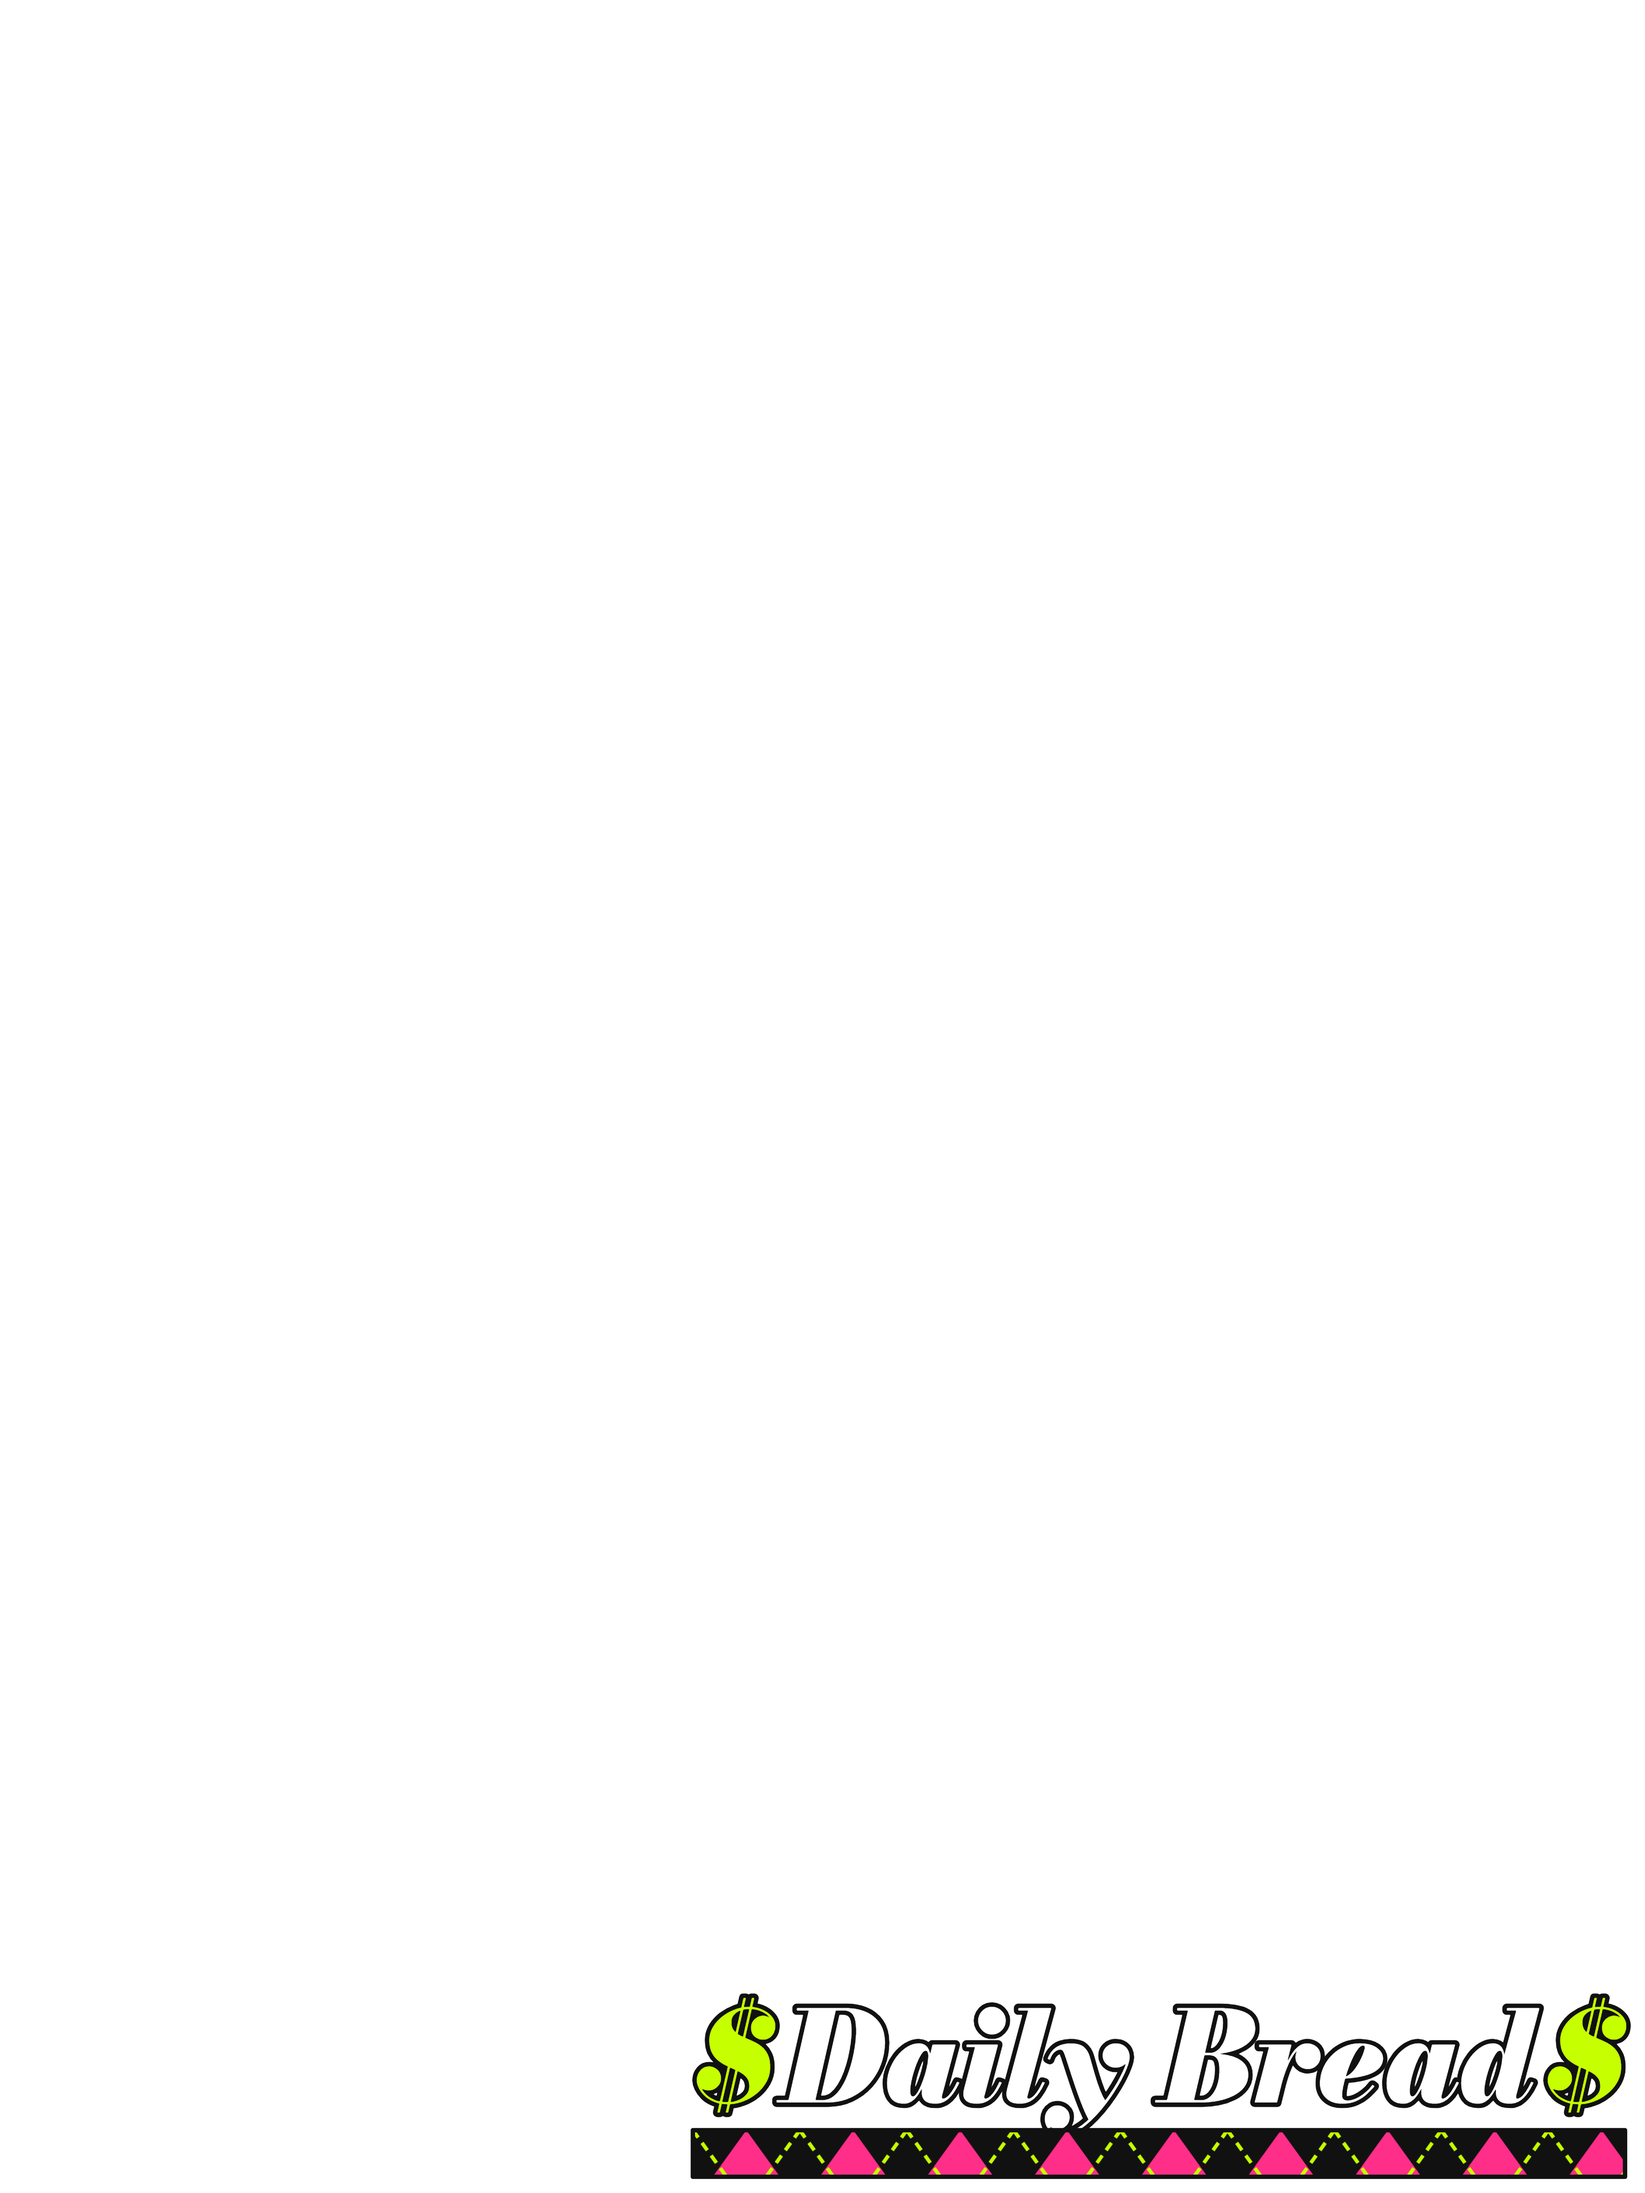
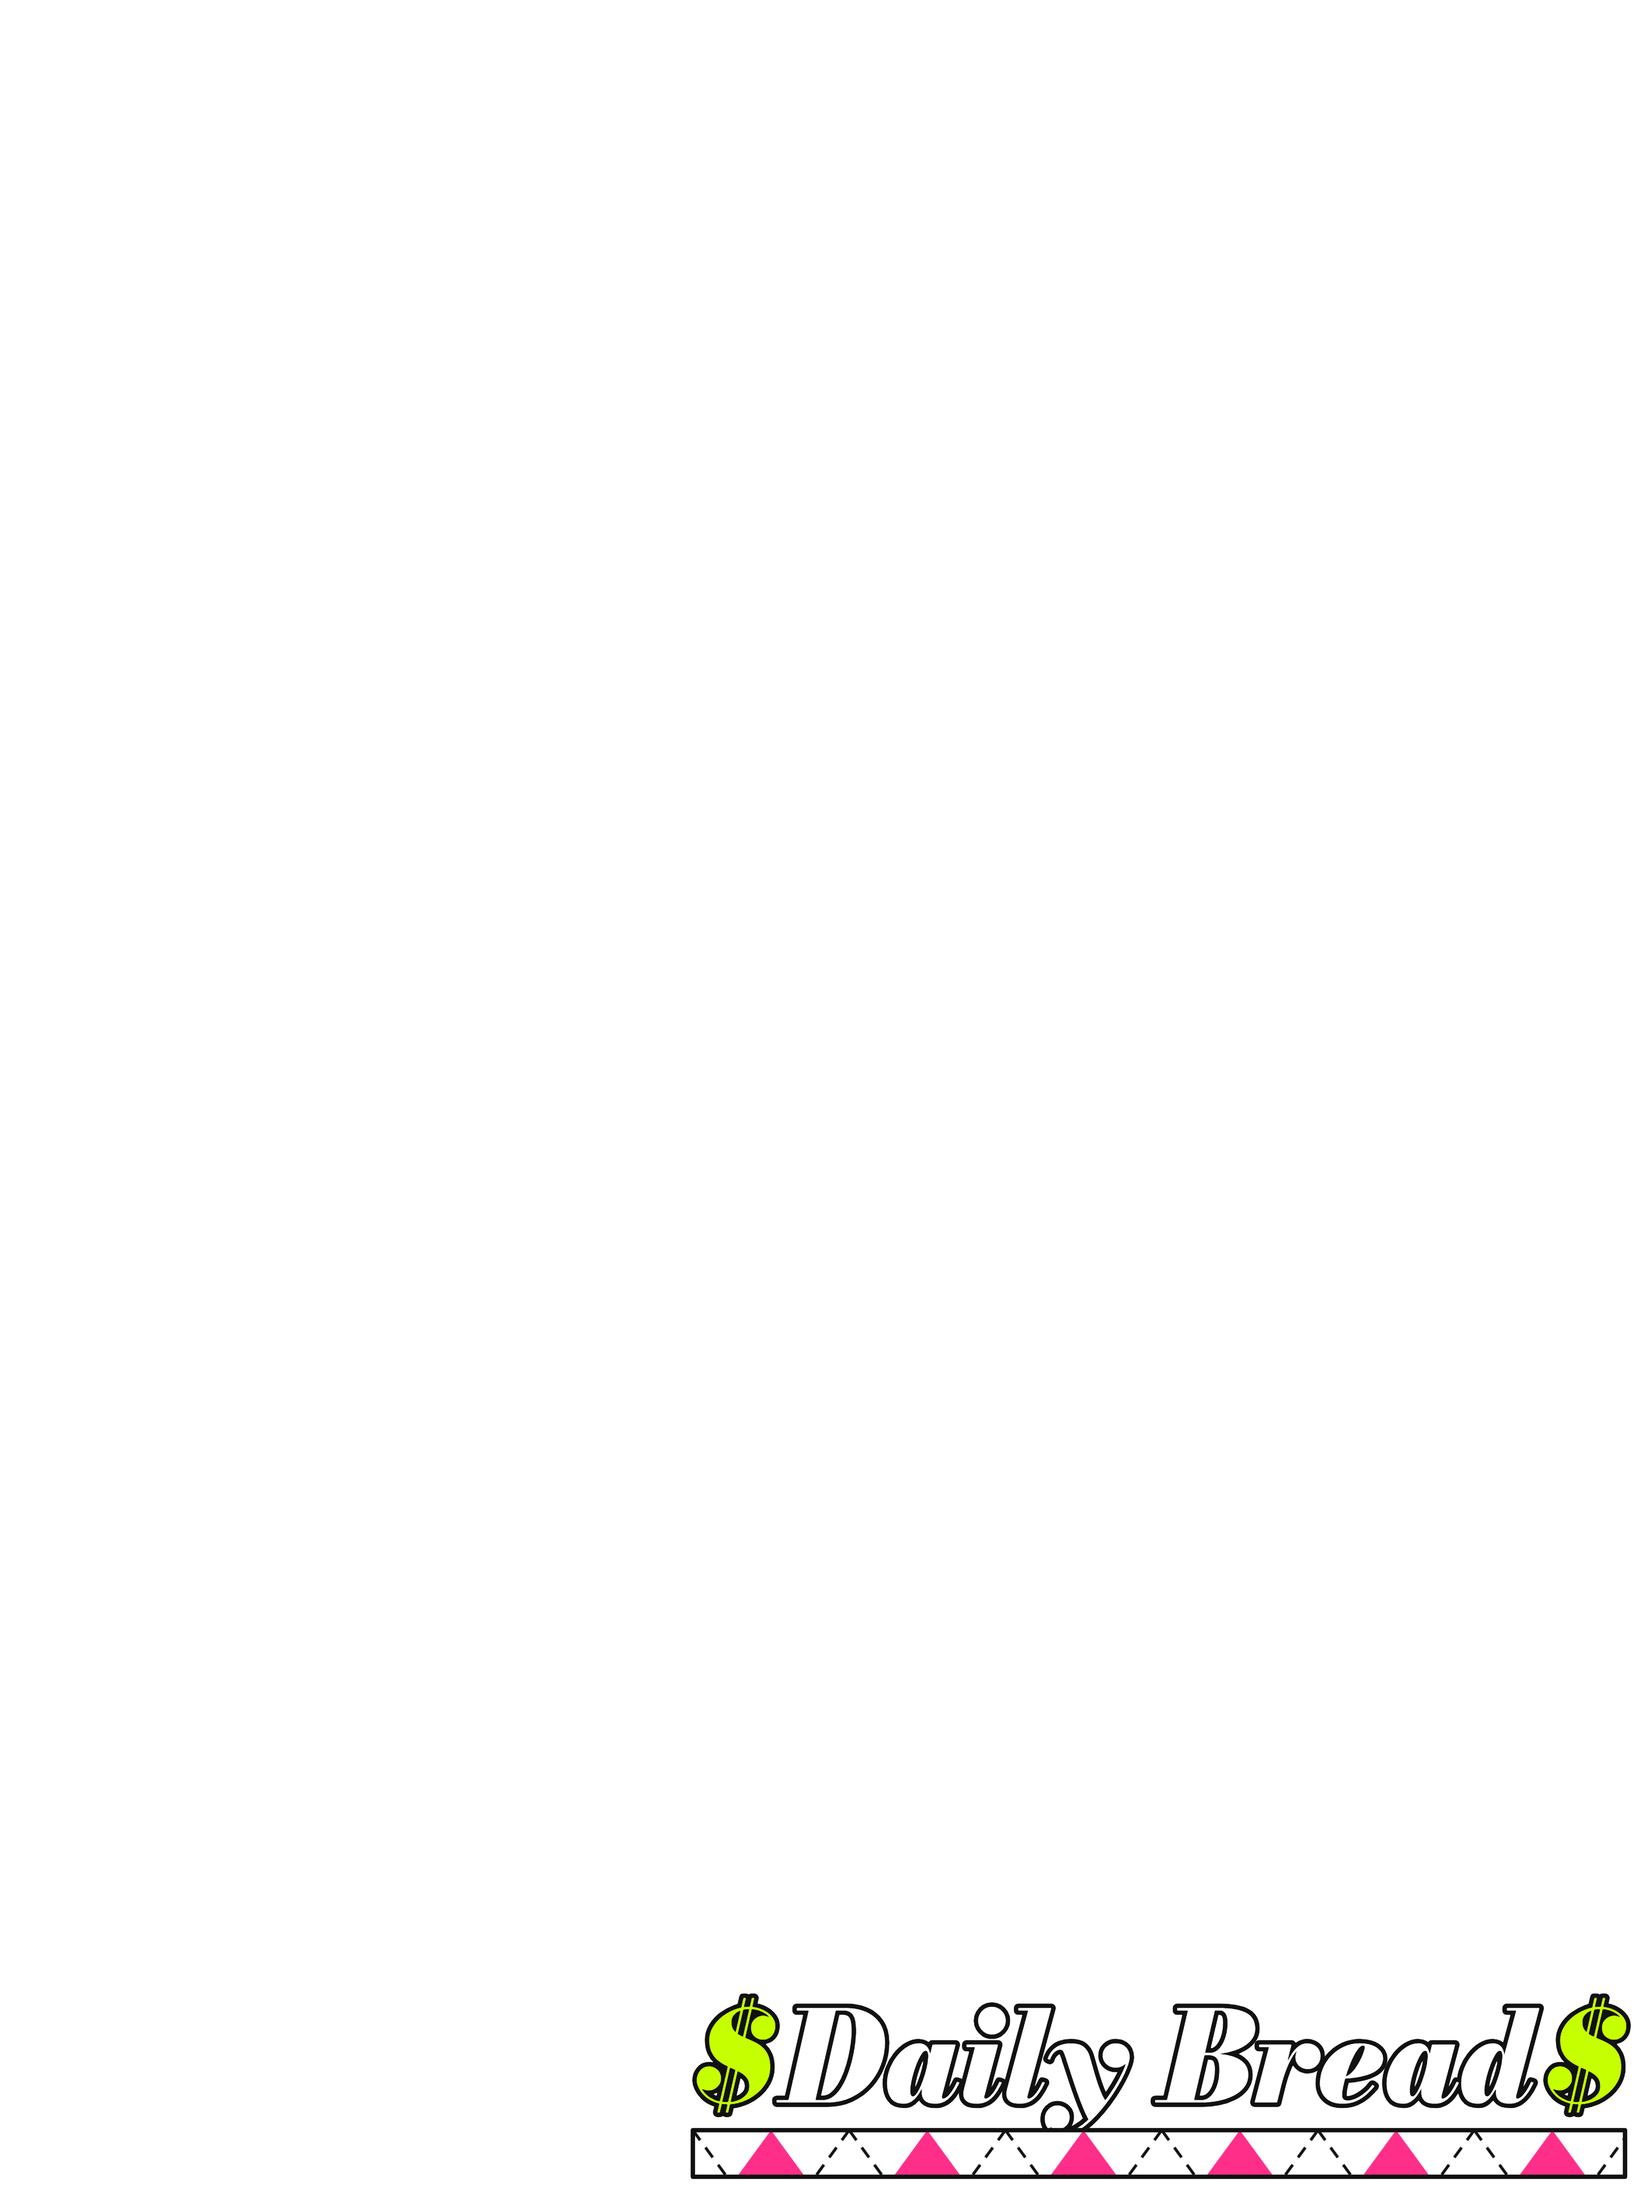
Argyle v2: calmer pattern, one outline
Whole toast in argyle (no solid crust band), no light keylines, bigger diamonds
(about three across), no accent diamonds, thin dashed overcheck, and lighter
diamond colors so the black face reads alone. Variants with the logo's inner
crust line kept for comparison. Notes updated.

Changed region(s): [[0.4044, 0.9688, 0.9956, 1.0]]

diff --git a/tshirts/patterns/patterns.js b/tshirts/patterns/patterns.js
@@ -17,10 +17,17 @@ const { setDpi } = require('../paintshop/printful');
 
 const INK = '#111111';
 const DESIGNS = {
-  'argyle-classic': { name: 'Argyle · Classic', pattern: 'argyle', crust: '#1d2a4d', halo: '#d4af37', key: '#f3ecdc',
-    a: { base: '#f3ecdc', d1: '#1d2a4d', d2: '#6f7f99', line: '#8c1d2b' } },
-  'argyle-brand': { name: 'Argyle · Brand', pattern: 'argyle', crust: '#111111', halo: '#c6ff00', key: '#ffffff',
-    a: { base: '#ffffff', d1: '#ff2e88', d2: '#111111', line: '#c6ff00' } },
+  // Argyle v2 (calmer): the whole toast is argyle (no solid crust band), no keylines, bigger diamonds, no
+  // accent diamonds, a thin overcheck; light diamond colors so the black face reads on its own. "-line" keeps
+  // the logo's inner crust line, the plain ids drop it (one outline only).
+  'argyle-classic': { name: 'Argyle · Classic', pattern: 'argyle', v2: true, innerLine: false, halo: '#d4af37',
+    a: { base: '#f3ecdc', d1: '#9fb0c8', d2: '#f3ecdc', line: '#1d2a4d' } },
+  'argyle-classic-line': { name: 'Argyle · Classic, inner line', pattern: 'argyle', v2: true, innerLine: true, halo: '#d4af37',
+    a: { base: '#f3ecdc', d1: '#9fb0c8', d2: '#f3ecdc', line: '#1d2a4d' } },
+  'argyle-brand': { name: 'Argyle · Brand', pattern: 'argyle', v2: true, innerLine: false, halo: '#c6ff00',
+    a: { base: '#ffffff', d1: '#ff2e88', d2: '#ffffff', line: '#111111' } },
+  'argyle-brand-line': { name: 'Argyle · Brand, inner line', pattern: 'argyle', v2: true, innerLine: true, halo: '#c6ff00',
+    a: { base: '#ffffff', d1: '#ff2e88', d2: '#ffffff', line: '#111111' } },
   'houndstooth-classic': { name: 'Houndstooth · Classic', pattern: 'houndstooth', crust: '#f4f4f2', halo: '#d4af37', key: '#ffffff',
     h: { dark: '#111111', light: '#f4f4f2' } },
   'houndstooth-brand': { name: 'Houndstooth · Brand', pattern: 'houndstooth', crust: '#ff2e88', halo: '#c6ff00', key: '#ffffff',
@@ -34,11 +41,11 @@ const FACE = `<g transform="${TOAST_T}"><path d="M62,108 C44,106 44,78 66,74 C78
 const isHalo = p => p.shape.includes('A38,9');
 
 // Pattern tiles, in drawing units (the toast is about 115 units wide).
-function argyleTile(c, w = 26, h = 36) {
+// Argyle v2: about three diamonds across the toast, a thin dashed overcheck, no accent diamonds.
+function argyleTile(c, w = 38, h = 52) {
   return { w, h, svg: `<rect width="${w}" height="${h}" fill="${c.d2}"/>`
     + `<path d="M${w / 2},0 L${w},${h / 2} L${w / 2},${h} L0,${h / 2} Z" fill="${c.d1}"/>`
-    + `<path d="M0,0 L${w},${h} M${w},0 L0,${h}" stroke="${c.line}" stroke-width="0.9" stroke-dasharray="2.2 1.6" fill="none"/>`
-    + `<path d="M${w / 2},${h / 2 - 3.2} L${w / 2 + 2.3},${h / 2} L${w / 2},${h / 2 + 3.2} L${w / 2 - 2.3},${h / 2} Z" fill="${c.base}"/>` };
+    + `<path d="M0,0 L${w},${h} M${w},0 L0,${h}" stroke="${c.line}" stroke-width="0.7" stroke-dasharray="3 2.2" fill="none"/>` };
 }
 function houndstoothTile(c, cell = 1.15) {
   // 2/2 twill: warp shows where (x + y) mod 4 < 2; warp color by column, weft color by row (4 dark, 4 light).
@@ -58,10 +65,16 @@ function frontSvg(id, size = 1000) {
   const outline = saint.parts.map(p => `<g fill="${INK}" stroke="${INK}" stroke-width="${OUTLINE}" stroke-linejoin="round">${p.shape}</g>`).join('');
   const halo = saint.parts.filter(isHalo).map(p => `<g fill="${d.halo}">${p.shape}</g>`).join('');
   const toastP = saint.parts.find(p => !isHalo(p));
-  const toast = `<g fill="${d.crust}">${toastP.shape}</g><g fill="url(#p-${id})">${FACE}</g>`;
-  // face details: the light keyline first (a wider stroke underneath), then the black lines
-  const det = toastP.detail.replace(/#000/g, INK);
-  const keyline = det.replace(/stroke="#111111"/g, `stroke="${d.key}"`).replace(/stroke-width="([\d.]+)"/g, (m, w) => `stroke-width="${+w + 3.2}"`);
+  let toast, det = toastP.detail.replace(/#000/g, INK), keyline = '';
+  if (d.v2) {
+    // the whole toast in the pattern, no keylines; drop the inner crust line unless asked for
+    toast = `<g fill="url(#p-${id})">${toastP.shape}</g>`;
+    if (!d.innerLine) det = det.replace(/<path d="M62,108[^>]*\/>/, '');
+  } else {
+    toast = `<g fill="${d.crust}">${toastP.shape}</g><g fill="url(#p-${id})">${FACE}</g>`;
+    // face details: the light keyline first (a wider stroke underneath), then the black lines
+    keyline = det.replace(/stroke="#111111"/g, `stroke="${d.key}"`).replace(/stroke-width="([\d.]+)"/g, (m, w) => `stroke-width="${+w + 3.2}"`);
+  }
   return `<svg xmlns="http://www.w3.org/2000/svg" viewBox="20 20 160 180" width="${size}" height="${size * 180 / 160}"><title>Coma Toast Saint, ${d.name}</title><defs>${pat}</defs>${outline}${halo}${toast}${keyline}${det}</svg>`;
 }
 

diff --git a/obsidian/Coma Toast/Shirts/Argyle and Houndstooth.md b/obsidian/Coma Toast/Shirts/Argyle and Houndstooth.md
@@ -1,7 +1,7 @@
 ---
 tags: [coma-toast, shirt, argyle, houndstooth, printful]
 updated: 2026-10-13
-status: v1 samples (2 patterns × 2 colorways), waiting on pick
+status: argyle v2 (calmer, no extra borders), waiting on pick
 ---
 # Argyle and Houndstooth
 
@@ -10,7 +10,21 @@ Part of [[Coma Toast]]. Two designs that mix the **main halo logo** (Saint, see 
 - **Local folders:** `G:\ComaToast\Argyle\`, `G:\ComaToast\Houndstooth\`
 - **Repo folder:** `tshirts/patterns/` (files in `files/<design>-<colorway>/`)
 
-## Look
+## Argyle v2 (current, 2026-10-13)
+Feedback on v1: "a nice start, but a little busy", and no extra border. Changes:
+- The **whole toast is argyle** (no solid crust band) with **one black outline**; no light keylines.
+- **Bigger diamonds** (about three across the toast), **no accent diamonds**, a **thin dashed overcheck**.
+- **Lighter diamond colors** so the black face reads without a keyline.
+- Variants with the logo's inner crust line (`-line`) were made for comparison; it reads as a second border, so the plain ones are recommended.
+
+| Design | Diamonds | Overcheck | Halo |
+|---|---|---|---|
+| **Argyle · Classic** (`argyle-classic`) | pale blue `#9fb0c8` and cream `#f3ecdc` | navy `#1d2a4d` | gold `#d4af37` |
+| **Argyle · Brand** (`argyle-brand`) | hot pink `#ff2e88` and white | black | lime `#c6ff00` |
+
+Files: `files/argyle-classic/`, `files/argyle-brand/` (and `-line` variants). Locally in `G:\ComaToast\Argyle\`.
+
+## Look (v1)
 - The toast's **face is filled with the pattern**; the **crust is solid** and frames it; the **halo is solid**.
 - The face (X eyes, Soft Pulse mouth, inner crust line) is black with a thin light keyline so it reads over the pattern.
 - Thick black outline around everything (6.5 units; 9 was too heavy and merged the halo into the toast).
@@ -43,6 +57,7 @@ Bella+Canvas 3001 (Printful product 71), DTG front: the art is **10.08 × 12 in*
 
 ## Change log
 - **2026-10-13 — v1:** Saint × argyle and Saint × houndstooth, Classic and Brand colorways each, with the `$Daily Bread$` back.
+- **Argyle v2:** calmer: whole toast argyle, one outline, bigger diamonds, no accents, thin overcheck, lighter colors; inner-line variants for comparison.
 
 ## Open items
 - [ ] Pick the pattern and colorway.

diff --git a/obsidian/Coma Toast/Coma Toast.md b/obsidian/Coma Toast/Coma Toast.md
@@ -23,7 +23,7 @@ A plain slice of toast, knocked out: X'd-out eyes and a "Soft Pulse" heartbeat l
 |---|---|---|
 | PaintShop | v10 files ready for Printful (Hot Wire, Toxic, Riot) | [[PaintShop]] |
 | Benday Logo | Women's final: Saint in Hot Pink, with ` Bread$` back. Men's (blue) waiting on mark pick | [[Benday Logo]] |
-| Argyle and Houndstooth | v1: Saint with an argyle or houndstooth face, Classic / Brand colorways; waiting on pick | [[Argyle and Houndstooth]] |
+| Argyle and Houndstooth | Argyle v2 (calmer, one outline) and houndstooth v1, Classic / Brand; waiting on pick | [[Argyle and Houndstooth]] |
 | Looney | Rejected | [[Looney]] |
 | Desk Tee | Rejected | [[Desk Tee]] |
 | Inside label | Final: DAILY / BREAD in Montserrat outline, tall square block | [[Labels]] |
